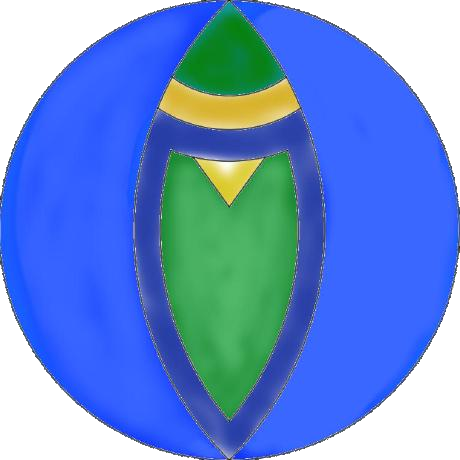
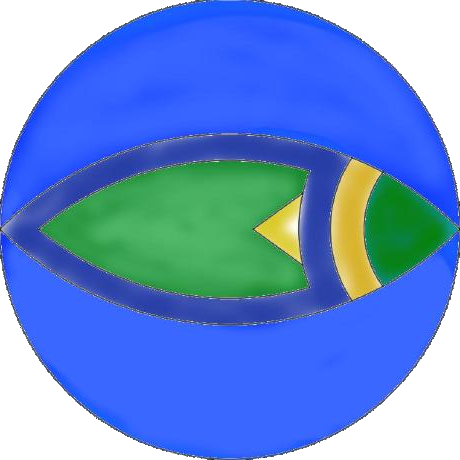
rotated goopie to follow rapier conventional angles

diff --git a/src/goopie.rs b/src/goopie.rs
@@ -113,7 +113,7 @@ pub fn apply_forward_impulse(
     mut query: Query<(&mut ExternalImpulse, &Transform), With<Goopie>>,
 ) {
     for (mut ext_impulse, transform) in query.iter_mut() {
-        let forward = transform.rotation * Vec3::Y;
+        let forward = transform.rotation * Vec3::X;
         let impulse = forward * 100.0; // Adjust the impulse strength as needed
         // println!("Applying impulse: {:?}", impulse);
         ext_impulse.impulse = impulse.truncate();
